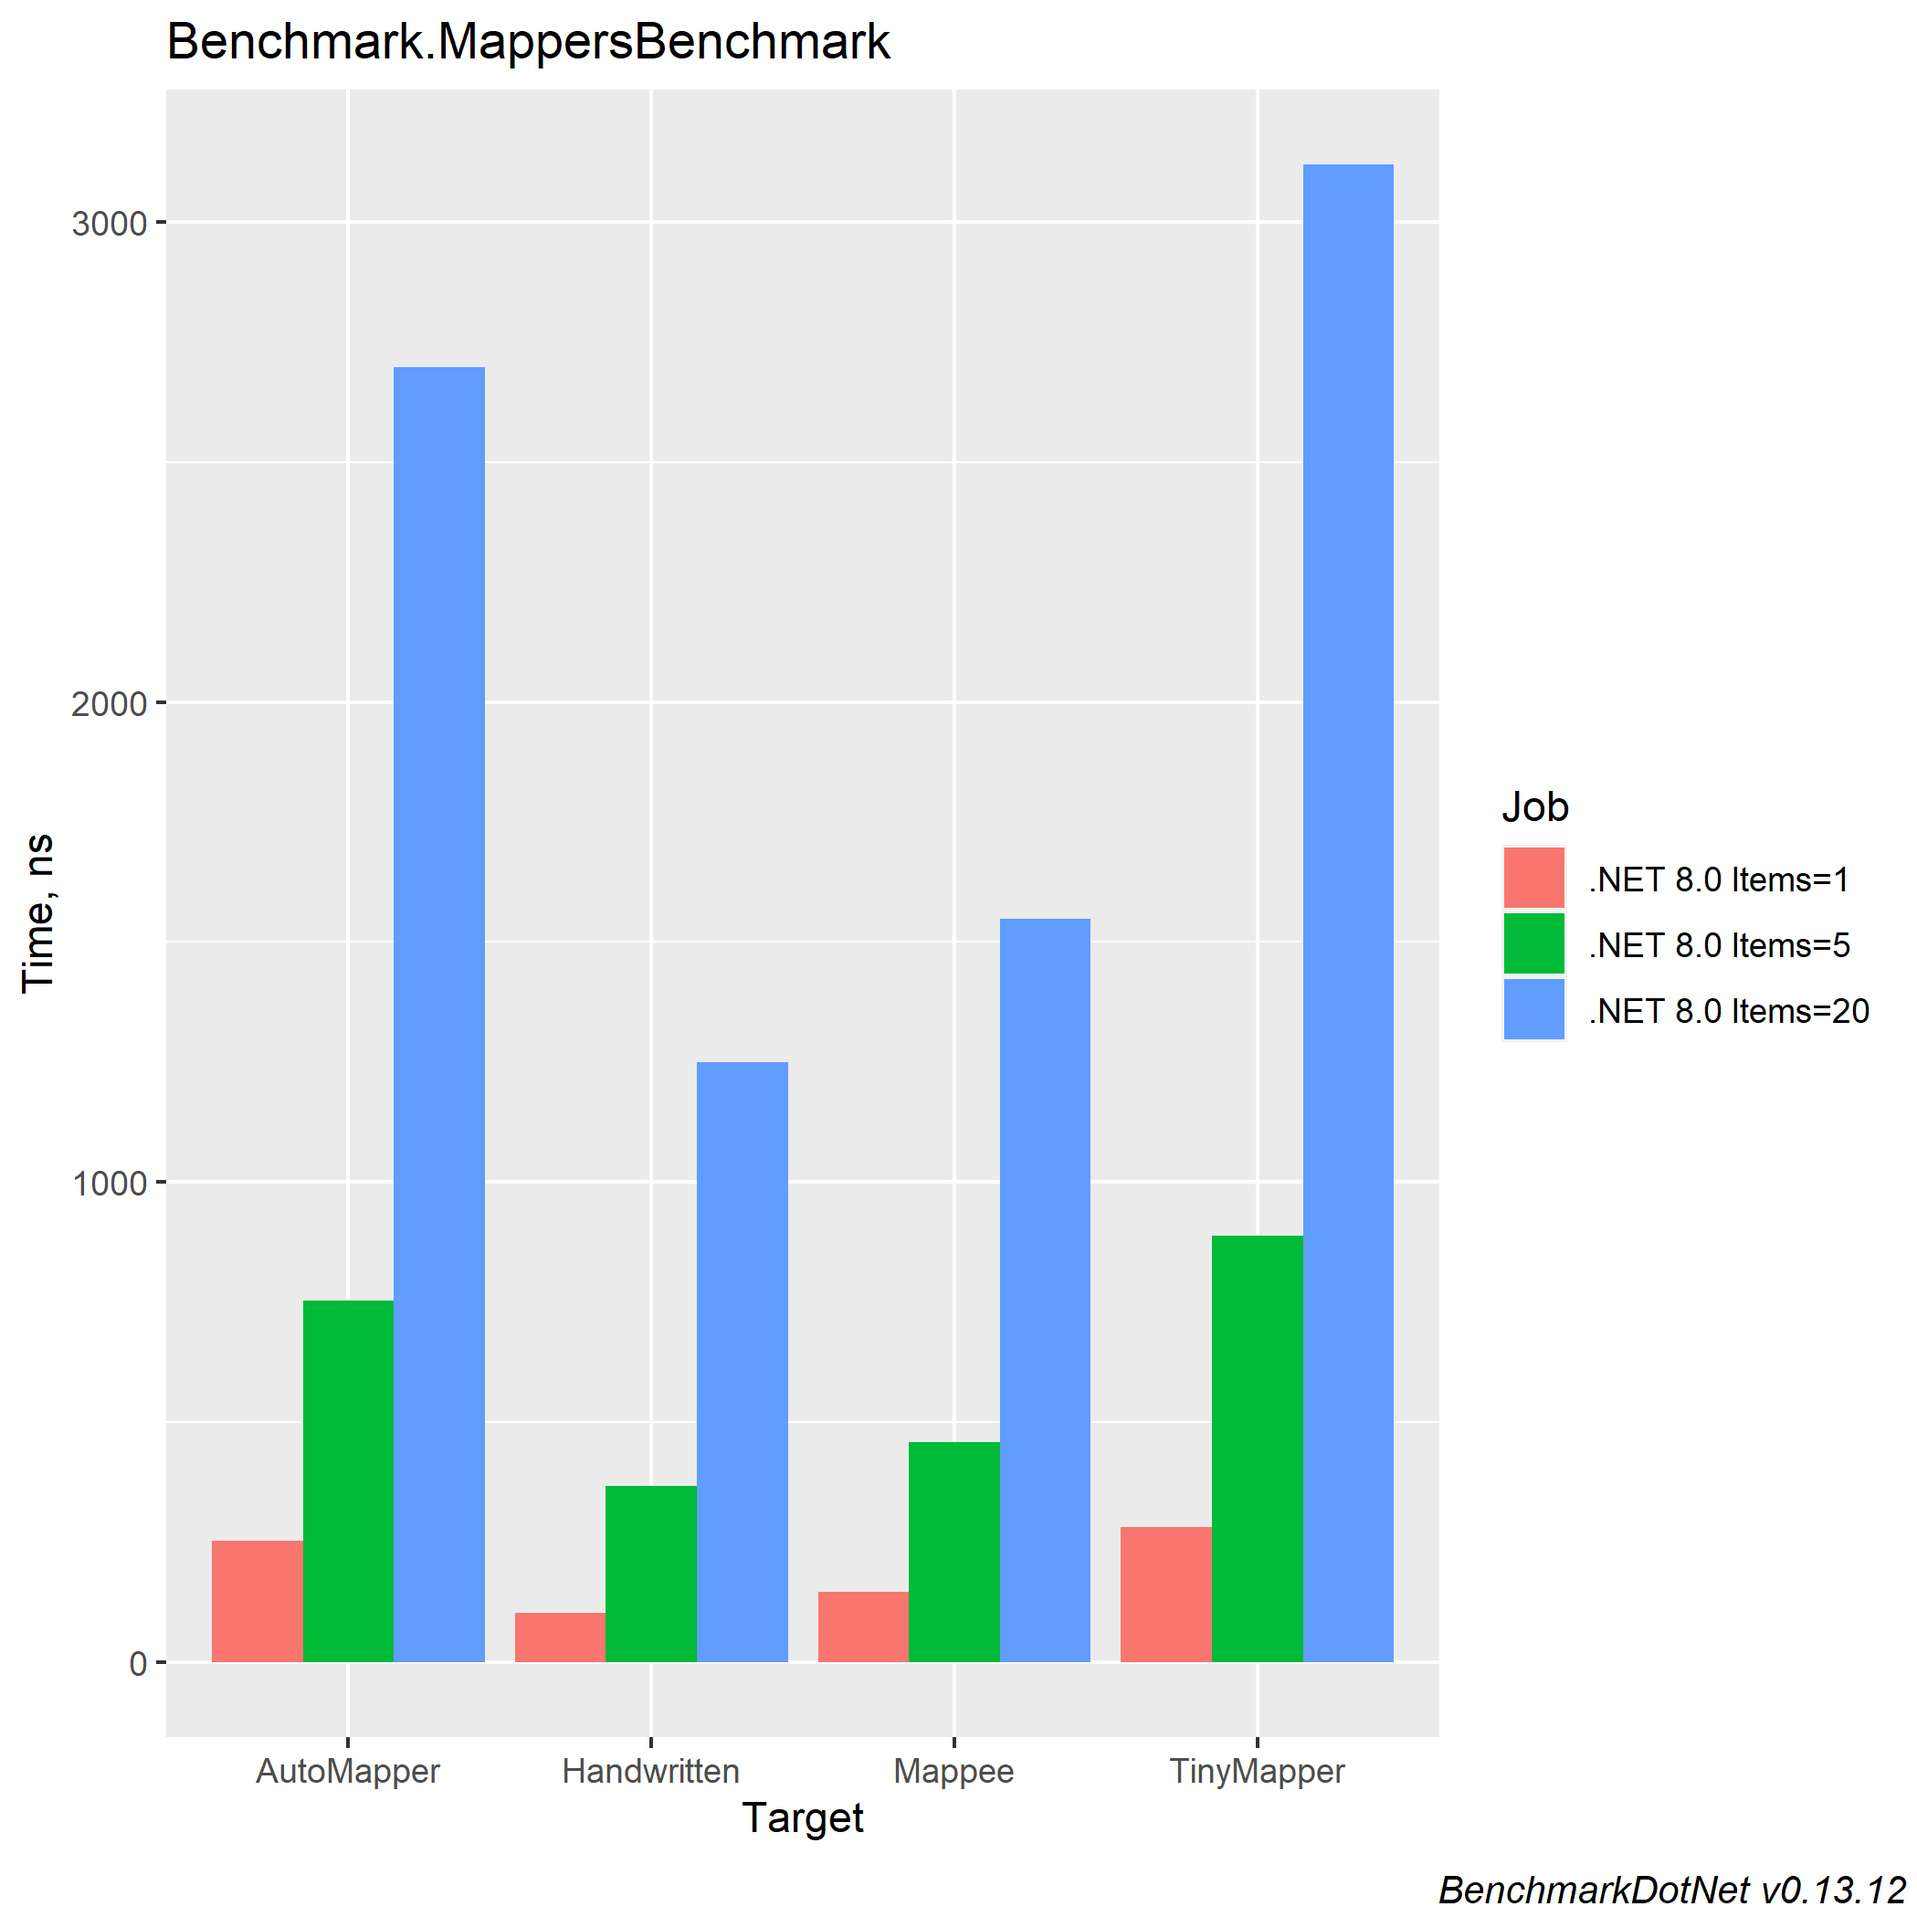
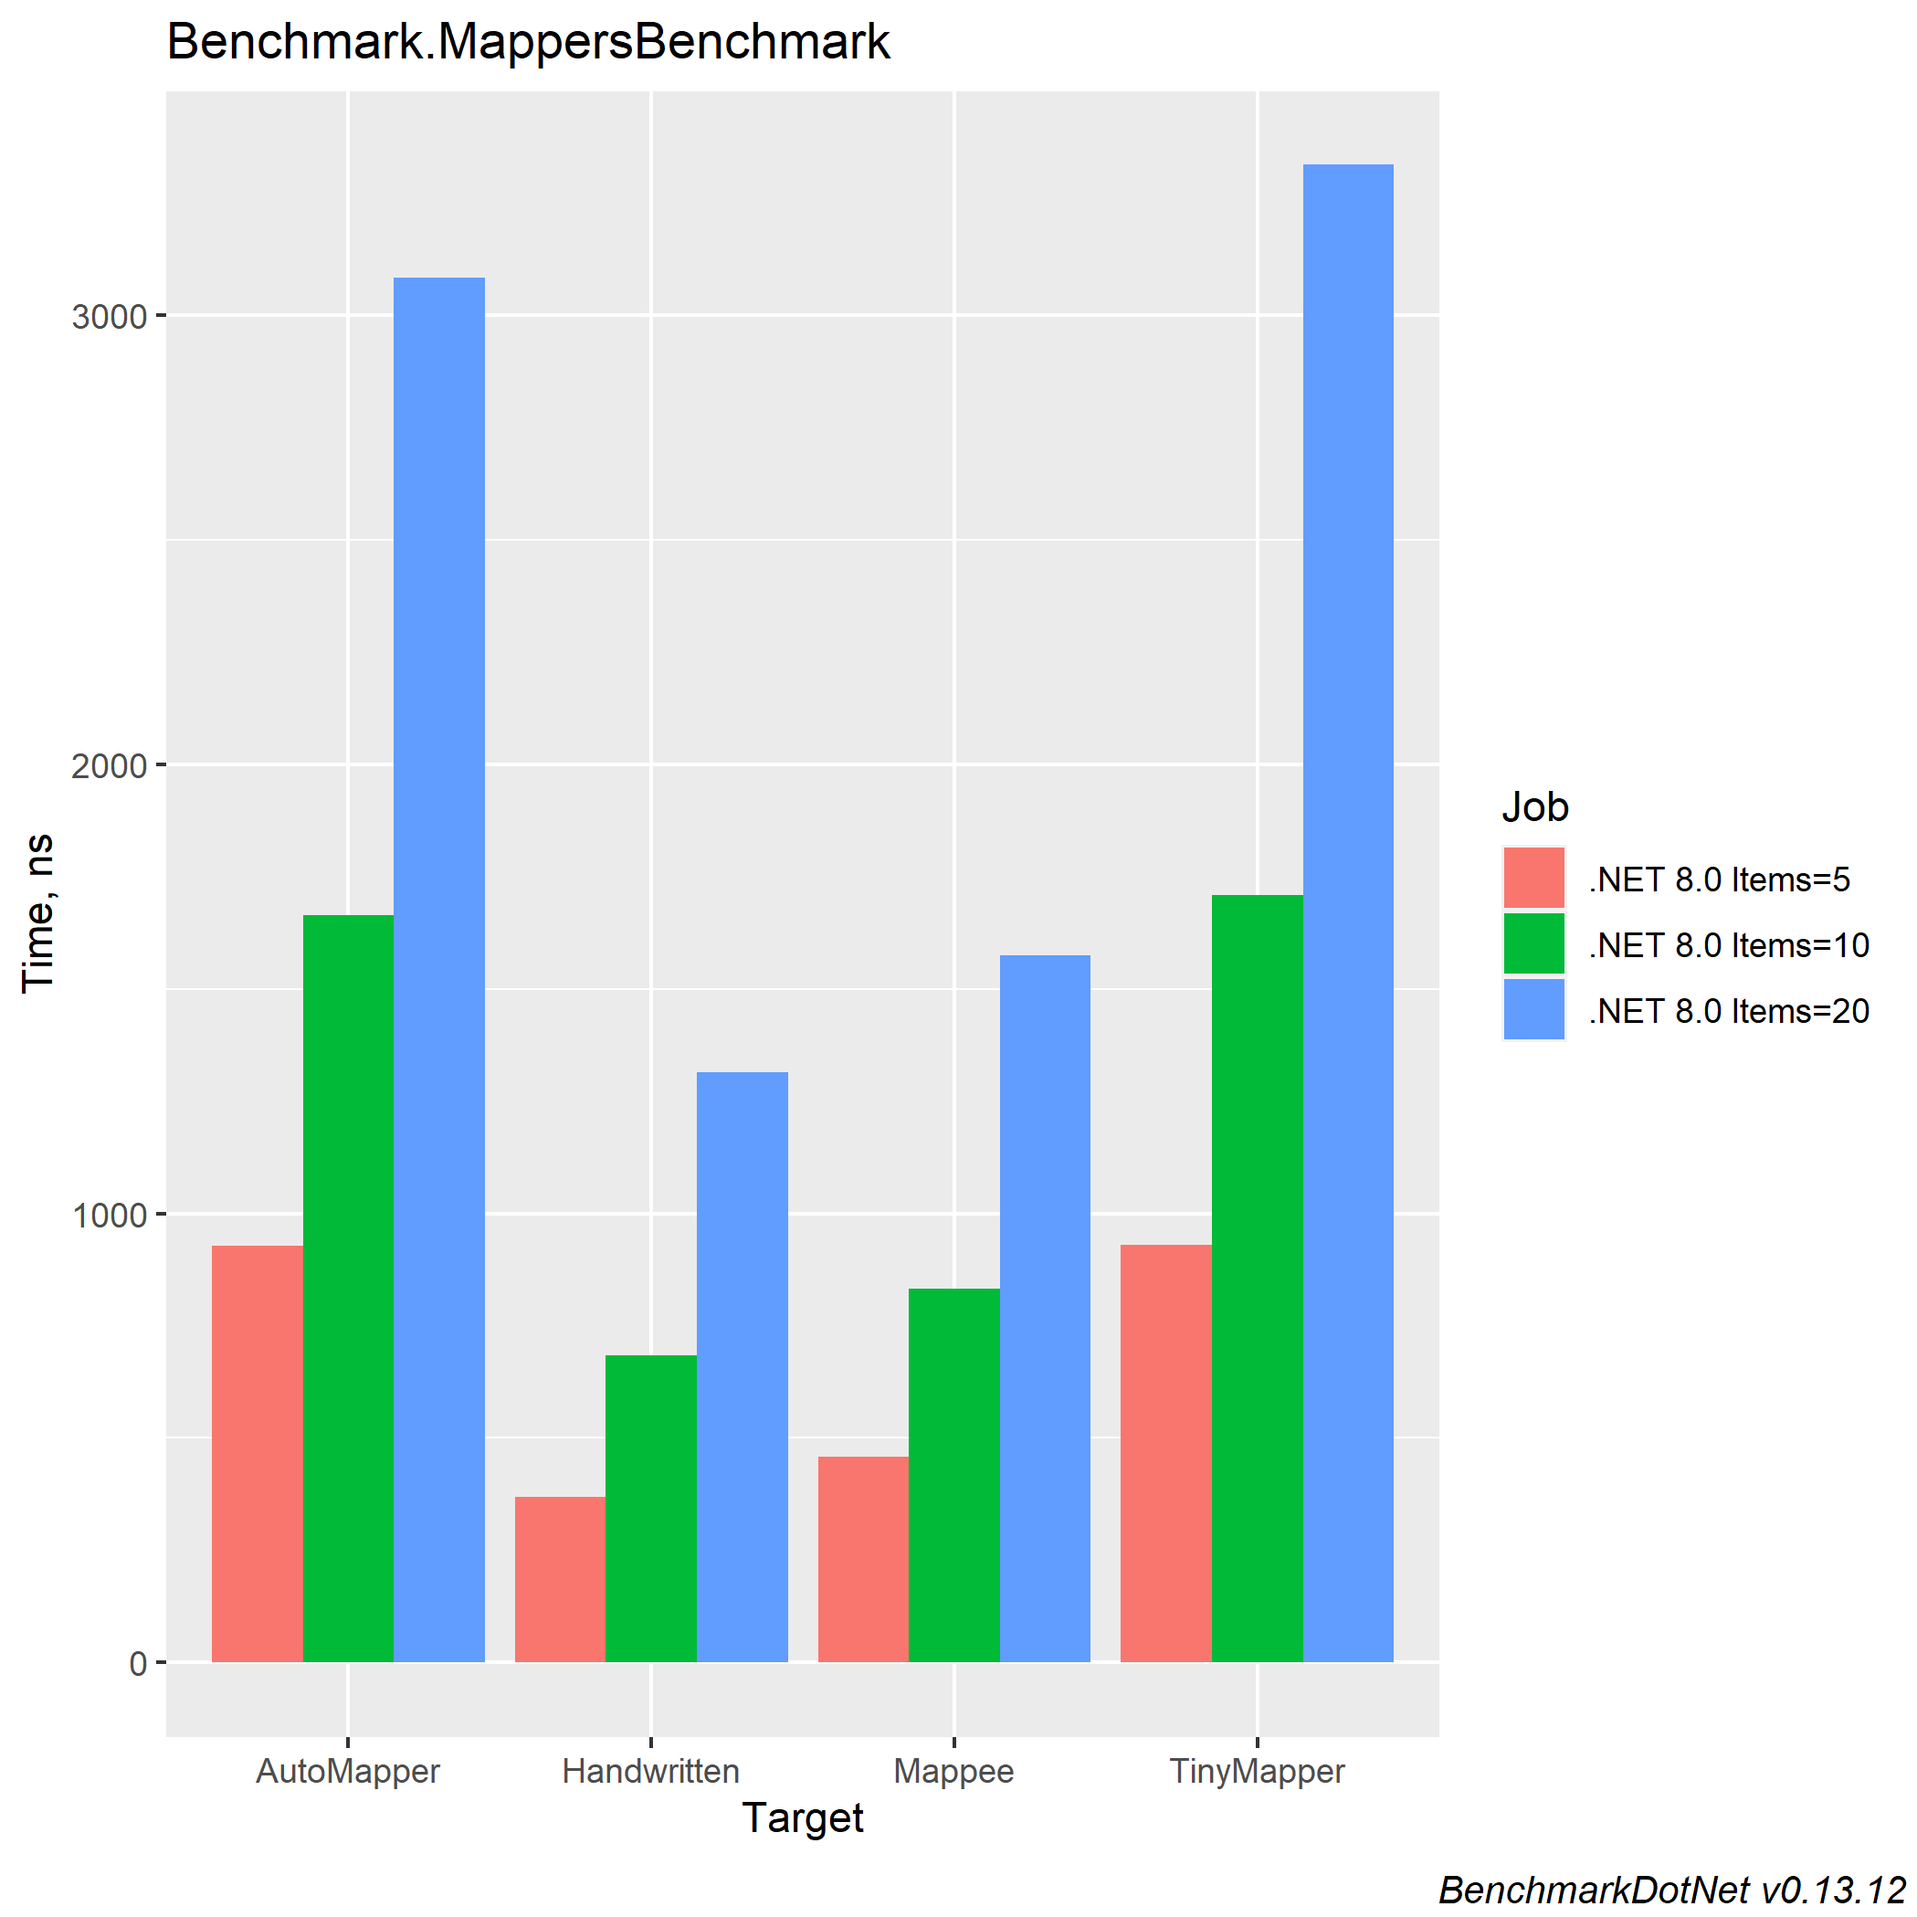
Updated README.md

diff --git a/src/Tests/Benchmark/MappersBenchmark.cs b/src/Tests/Benchmark/MappersBenchmark.cs
@@ -19,7 +19,8 @@ namespace Benchmark
     {
         private TestObject _source;
 
-        [Params(2500)]
+        //[Params(2500)]
+        [Params(5, 10, 20)]
         public int Items;
 
         [GlobalSetup]

diff --git a/README.md b/README.md
@@ -1,4 +1,4 @@
-Mappee - Fastest avaiable mapper for .NET
+Mappee - Fastest avaiable mapper for .NET
 ======================================================
 [![GitHub license](https://img.shields.io/github/license/mashape/apistatus.svg)](https://github.com/sonquer/mappee/blob/main/LICENSE)
 [![First Timers](https://img.shields.io/badge/first--timers--only-friendly-blue.svg)](http://www.firsttimersonly.com/)
@@ -11,18 +11,6 @@ Generated code is cached, so it is only generated once for each type pair, and t
 ## Features
 - Fast and efficient
 - Simple and easy to use
-
-## Mappee vs other mappers (performance comparison)
-
-### Benchmarks
-
-#### 2500 items in 3 different collections and 2500 nested objects (like linked list)
-
-![Performance Comparison 2500](https://raw.githubusercontent.com/sonquer/mappee/main/assets/images/2500-barplot.png)
-
-##### 1,5,20 items in 3 different collections and 1,5,20 nested objects (like linked list)
-
-![Performance Comparison 1,5,20](https://raw.githubusercontent.com/sonquer/mappee/main/assets/images/5-10-20-barplot.png)
 
 ## Getting Started
 
@@ -58,6 +46,60 @@ var mapper = scope.ServiceProvider.GetRequiredService<IMapper>();
 var testObject = new TestObject();
 var testObjectDto = mapper.Map<TestObject, TestObjectDto>(testObject);
 ```
+
+## Mappee vs other mappers (performance comparison)
+
+### Benchmarks
+
+#### 2500 items in 3 different collections and 2500 nested objects (like linked list)
+
+![Performance Comparison 2500](https://raw.githubusercontent.com/sonquer/mappee/main/assets/images/2500-barplot.png)
+
+```
+BenchmarkDotNet v0.13.12, Windows 11 (10.0.22631.3155/23H2/2023Update/SunValley3)
+12th Gen Intel Core i7-12700K, 1 CPU, 20 logical and 12 physical cores
+.NET SDK 8.0.101
+  [Host]   : .NET 8.0.1 (8.0.123.58001), X64 RyuJIT AVX2
+  .NET 8.0 : .NET 8.0.1 (8.0.123.58001), X64 RyuJIT AVX2
+
+Job=.NET 8.0  Runtime=.NET 8.0  
+```
+| Method      | Items | Mean       | Error    | StdDev   | Ratio | Rank | Gen0     | Gen1     | Gen2    | Allocated | Alloc Ratio |
+|------------ |------ |-----------:|---------:|---------:|------:|-----:|---------:|---------:|--------:|----------:|------------:|
+| AutoMapper  | 2500  | 1,697.0 μs | 33.92 μs | 58.50 μs |  1.00 |    1 | 144.5313 | 142.5781 | 35.1563 |    1.5 MB |        1.00 |
+| TinyMapper  | 2500  |   426.8 μs |  1.94 μs |  1.82 μs |  1.00 |    1 |  99.1211 |  49.3164 |       - |   1.24 MB |        1.00 |
+| Mappee      | 2500  |   268.0 μs |  2.85 μs |  2.67 μs |  1.00 |    1 | 140.6250 |  93.2617 |       - |   1.75 MB |        1.00 |
+| Handwritten | 2500  |   233.5 μs |  4.08 μs |  3.62 μs |  1.00 |    1 | 122.0703 |  66.4063 |       - |   1.52 MB |        1.00 |
+
+---
+
+##### 1,5,20 items in 3 different collections and 1,5,20 nested objects (like linked list)
+
+![Performance Comparison 1,5,20](https://raw.githubusercontent.com/sonquer/mappee/main/assets/images/5-10-20-barplot.png)
+
+```
+BenchmarkDotNet v0.13.12, Windows 11 (10.0.22631.3155/23H2/2023Update/SunValley3)
+12th Gen Intel Core i7-12700K, 1 CPU, 20 logical and 12 physical cores
+.NET SDK 8.0.101
+  [Host]   : .NET 8.0.1 (8.0.123.58001), X64 RyuJIT AVX2
+  .NET 8.0 : .NET 8.0.1 (8.0.123.58001), X64 RyuJIT AVX2
+
+Job=.NET 8.0  Runtime=.NET 8.0  
+```
+| Method      | Items | Mean       | Error    | StdDev   | Ratio | Rank | Gen0   | Gen1   | Allocated | Alloc Ratio |
+|------------ |------ |-----------:|---------:|---------:|------:|-----:|-------:|-------:|----------:|------------:|
+| AutoMapper  | 5     |   928.6 ns | 12.45 ns | 11.64 ns |  1.00 |    1 | 0.2775 | 0.0029 |   3.55 KB |        1.00 |
+| TinyMapper  | 5     |   930.4 ns |  9.43 ns |  8.82 ns |  1.00 |    1 | 0.2356 | 0.0019 |   3.01 KB |        1.00 |
+| Mappee      | 5     |   457.6 ns |  9.17 ns | 10.56 ns |  1.00 |    1 | 0.3252 | 0.0029 |   4.16 KB |        1.00 |
+| Handwritten | 5     |   368.8 ns |  1.90 ns |  1.58 ns |  1.00 |    1 | 0.2813 | 0.0024 |   3.59 KB |        1.00 |
+| AutoMapper  | 10    | 1,663.7 ns | 14.35 ns | 13.42 ns |  1.00 |    1 | 0.5302 | 0.0095 |   6.79 KB |        1.00 |
+| TinyMapper  | 10    | 1,708.8 ns | 18.58 ns | 17.38 ns |  1.00 |    1 | 0.4387 | 0.0057 |    5.6 KB |        1.00 |
+| Mappee      | 10    |   832.1 ns | 13.57 ns | 12.70 ns |  1.00 |    1 | 0.6113 | 0.0095 |    7.8 KB |        1.00 |
+| Handwritten | 10    |   683.4 ns |  5.36 ns |  4.75 ns |  1.00 |    1 | 0.5302 | 0.0076 |   6.77 KB |        1.00 |
+| AutoMapper  | 20    | 3,082.1 ns | 13.87 ns | 12.30 ns |  1.00 |    1 | 1.0376 | 0.0343 |  13.26 KB |        1.00 |
+| TinyMapper  | 20    | 3,334.9 ns | 65.42 ns | 77.87 ns |  1.00 |    1 | 0.8392 | 0.0229 |  10.72 KB |        1.00 |
+| Mappee      | 20    | 1,575.2 ns | 31.47 ns | 52.58 ns |  1.00 |    1 | 1.1768 | 0.0343 |  15.03 KB |        1.00 |
+| Handwritten | 20    | 1,313.9 ns | 15.95 ns | 14.14 ns |  1.00 |    1 | 1.0223 | 0.0286 |  13.06 KB |        1.00 |
 
 ## Supported platforms
 - .NET 8.0
